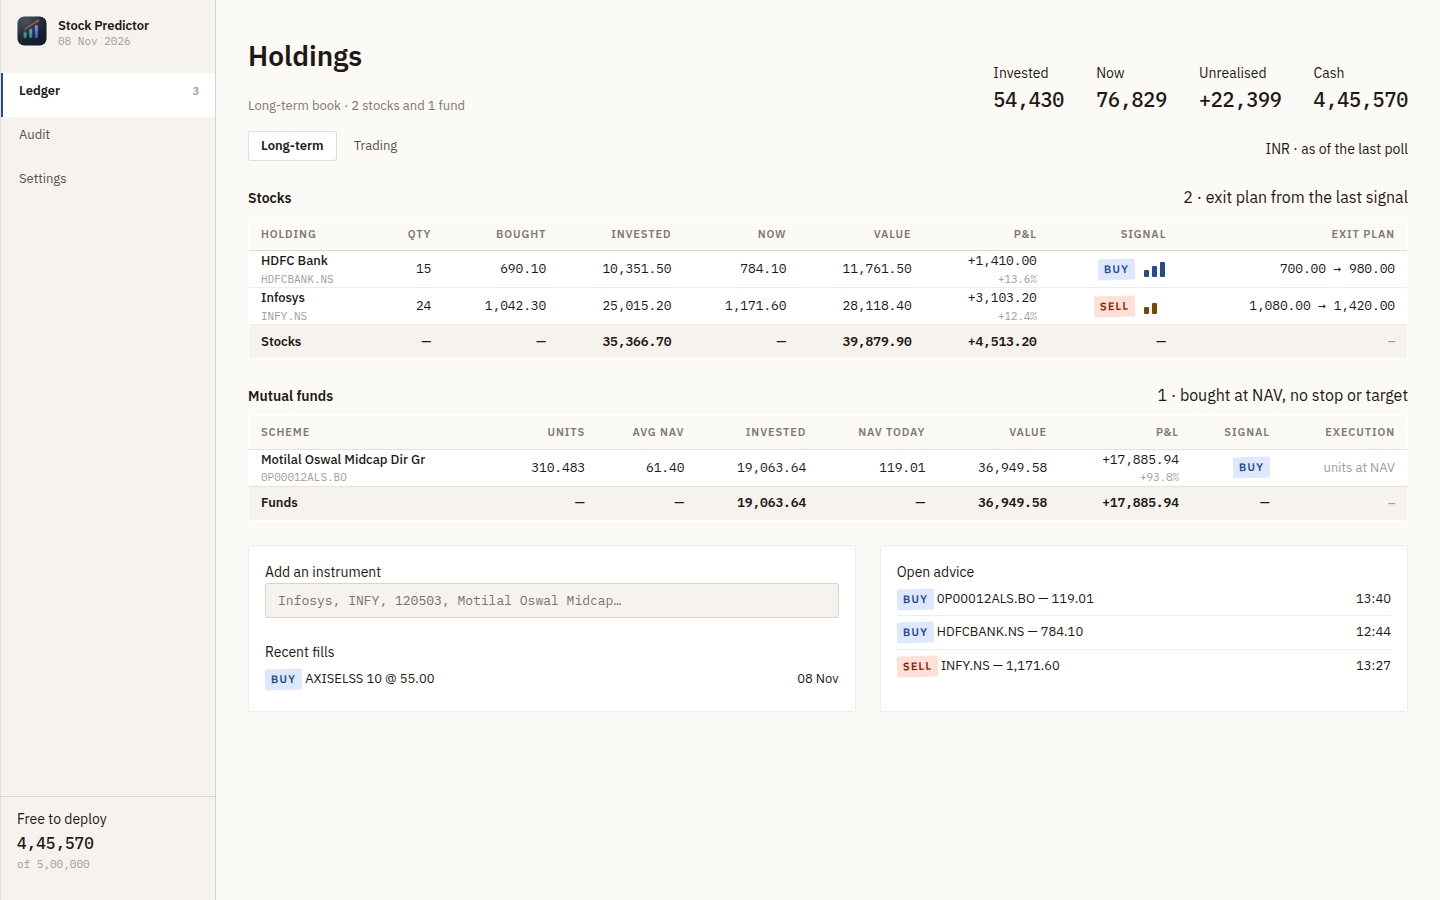
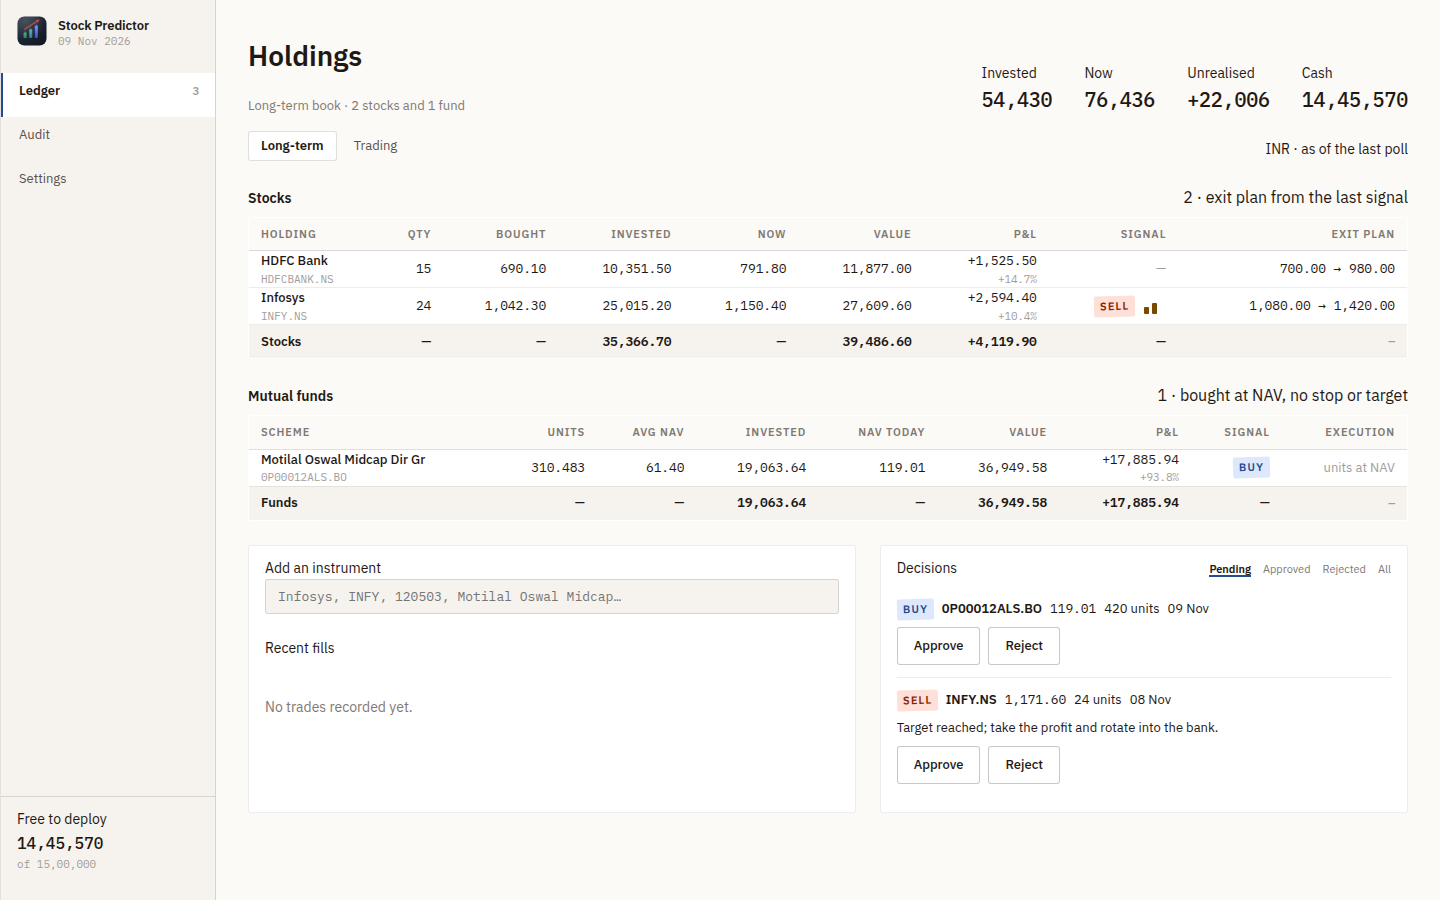
docs: the monthly allowance, approvals and rotation; fresh screenshot

diff --git a/web/src/main.ts b/web/src/main.ts
@@ -44,6 +44,7 @@ async function route(): Promise<void> {
       wireTradeForm(symbol);
       wireDecisions();
       wireDecisionActions();
+      wireDeleteInstrument();
       wireTargetProfit(symbol);
     } else {
       const mode = (new URLSearchParams(location.search).get("mode") as
@@ -314,6 +315,37 @@ function wireDecisions(): void {
         toggle();
       }
     });
+  });
+}
+
+/** Delete or archive, whichever the server decides — and say which it did. */
+function wireDeleteInstrument(): void {
+  const button = document.querySelector<HTMLButtonElement>("#delete-instrument");
+  if (!button) return;
+  const status = document.querySelector<HTMLElement>("#delete-status");
+  const symbol = button.dataset.symbol ?? "";
+  if (button.dataset.held && Number(button.dataset.held) > 0) {
+    button.disabled = true;
+    return;
+  }
+  button.addEventListener("click", async () => {
+    if (!window.confirm(`Remove ${symbol}? If it has fills it will be archived, not deleted.`)) return;
+    button.disabled = true;
+    if (status) status.textContent = "Removing…";
+    try {
+      const r = await api.deleteInstrument(symbol);
+      if (status) {
+        status.textContent = r.deleted
+          ? "Deleted, with its bars and headlines."
+          : `Archived — ${r.reason ?? "it has history"}.`;
+      }
+      window.setTimeout(() => {
+        location.href = "/";
+      }, 900);
+    } catch (e) {
+      if (status) status.textContent = String(e);
+      button.disabled = false;
+    }
   });
 }
 

diff --git a/web/src/render.test.ts b/web/src/render.test.ts
@@ -839,3 +839,35 @@ describe("decisions on the instrument page", () => {
     expect(html).not.toContain('data-approve="7"');
   });
 });
+
+describe("removing an instrument", () => {
+  const base = {
+    instrument: {
+      id: 1, symbol: "TCS.NS", class: "stock", name: "TCS", currency: "INR",
+      timing_note: "limit order", target_profit_pct: null,
+    },
+    bars: [], indicators: null, checks: [], position: null, headlines: [], signals: [], trades: [],
+  };
+
+  test("an unheld instrument offers a delete", async () => {
+    const { renderInstrument } = await import("./pages/instrument");
+    const html = renderInstrument(base as never, base as never, []);
+    expect(html).toContain('id="delete-instrument"');
+    expect(html).toContain("Delete this instrument");
+    expect(html).toContain("archived rather than deleted");
+  });
+
+  test("a held instrument refuses instead of offering it", async () => {
+    const { renderInstrument } = await import("./pages/instrument");
+    const held = {
+      ...base,
+      position: {
+        id: 1, symbol: "TCS.NS", name: "TCS", class: "stock", qty: 4, avg_cost: 100,
+        ltp: 110, value: 440, stop: 90, target: 130, state: "open", timing_note: "",
+      },
+    };
+    const html = renderInstrument(held as never, held as never, []);
+    expect(html).toContain("Sell it before deleting");
+    expect(html).toContain("cannot be removed");
+  });
+});

diff --git a/web/src/pages/instrument.ts b/web/src/pages/instrument.ts
@@ -338,6 +338,20 @@ export function renderInstrument(a: Analysis, d: InstrumentDetail, list: Trade[]
           ${rules}
         </section>
         <section class="card">
+          <div class="card-head"><h2>Manage</h2></div>
+          <button class="btn ghost" type="button" id="delete-instrument"
+                  data-symbol="${escapeHtml(a.instrument.symbol)}" data-held="${p ? p.qty : 0}">
+            ${p ? "Sell it before deleting" : "Delete this instrument"}
+          </button>
+          <p class="help" id="delete-status" role="status">
+            ${
+              p
+                ? "An instrument you hold cannot be removed — the history is what makes the ledger true."
+                : "If it has fills, it is archived rather than deleted: hidden from polling, history kept."
+            }
+          </p>
+        </section>
+        <section class="card">
           <div class="card-head"><h2>Indicators</h2></div>
           <div class="facts">${facts.map(([k, v]) => `<div class="pair"><span>${k}</span><span class="num">${v}</span></div>`).join("")}</div>
         </section>

diff --git a/README.md b/README.md
@@ -24,6 +24,15 @@ before you see it.
 
 ## Current Features
 
+- **A monthly allowance per pot, not a ceiling.** Money is granted on the 1st and unspent allowance
+  expires at month end — recorded as its own ledger kind, never as a trading loss. Raising the
+  allowance mid-month tops the pot up; lowering it claws the unspent part back.
+- **Decisions need your say-so.** Every suggestion is `pending` until you approve it — with the fill
+  you actually got, quantity and price editable — or reject it with a reason. The ledger shows what
+  is still under review; approved and rejected live behind a filter.
+- **Rotation.** When a buy is right but the cash is gone, the model may propose a swap: sell
+  something in profit to fund it. One decision with two legs, approved or refused as a unit, and a
+  swap that does not balance is refused before any money moves.
 - **Two pots, one process.** Long-term and trading books with separate capital, separate limits and
   separate history. Neither can starve the other; the same stock can sit in both.
 - **Stocks and mutual funds, handled as what they are.** Funds are bought at NAV and held — no
@@ -37,12 +46,14 @@ before you see it.
 - **Honest about silence.** A quiet instrument says why it is quiet — "rules see no entry (trend —
   close below SMA200)", "no key configured", "called 12 minutes ago".
 - **One notification per actionable change**, deduplicated, with a deep link back to the ledger.
-- **Cheap to run.** The model is called only when the price moved ₹2, when a new headline arrived, or
-  once an hour; the static prompt block is a cacheable prefix.
+- **Cheap to run.** The model is called only when the price moved or the headlines changed — never
+  just because time passed. The static prompt block is a cacheable prefix.
 - **Everything is a settings row** — budget, limits, model and key, ntfy, polling cadence and an
   HTTP proxy — edited in the UI and applied on the next tick. Three environment variables remain.
 - **Auditable.** Every outbound call stores its prompt and its raw reply; the Audit page renders the
   exchange as it happened.
+- **Removable.** An instrument you never traded is deleted with its bars; one with fills is archived
+  so its history survives; one you still hold is refused until it is sold.
 
 ## How it decides
 
